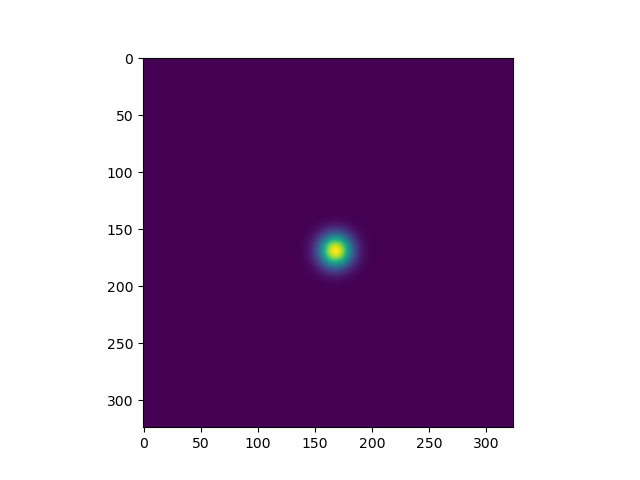
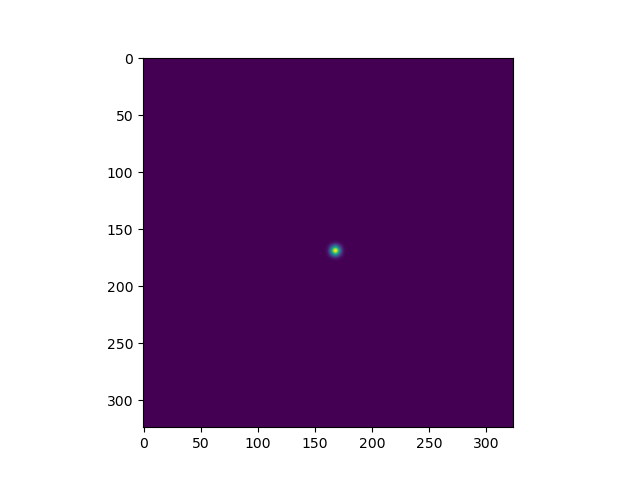
fix gaussian fit

Changed region(s): [[0.4688, 0.4688, 0.5625, 0.5938]]

diff --git a/subtract_psrcs.py b/subtract_psrcs.py
@@ -56,7 +56,7 @@ signal_copy = np.copy(signal_map)
 signal_copy_ravel = signal_copy.ravel()
 for src in blobs:
 	#p = opt.minimize(chi_sqr,[signal_copy[int(src[0]),int(src[1])],src[1],src[0],3],args=((x,y),signal_map_ravel)).x
-	p = opt.minimize(chi_sqr,[signal_copy[int(src[0]),int(src[1])],src[1],src[0],10],args=((x,y),signal_copy_ravel)).x
+	p = opt.minimize(chi_sqr,[signal_map[int(src[0]),int(src[1])],src[1],src[0],3],args=((x,y),signal_map_ravel)).x
 	print("initial guess: "+str(np.array([signal_copy[int(src[0]),int(src[1])],src[1],src[0],3]))) 
 	print("fit results " +str(p))
 	g_r = twoD_Gaussian((x,y),p[0],p[1],p[2],p[3])
